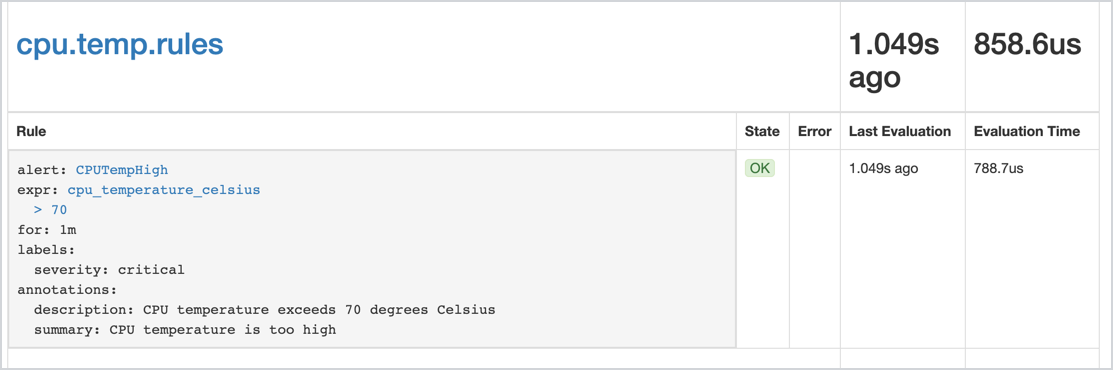
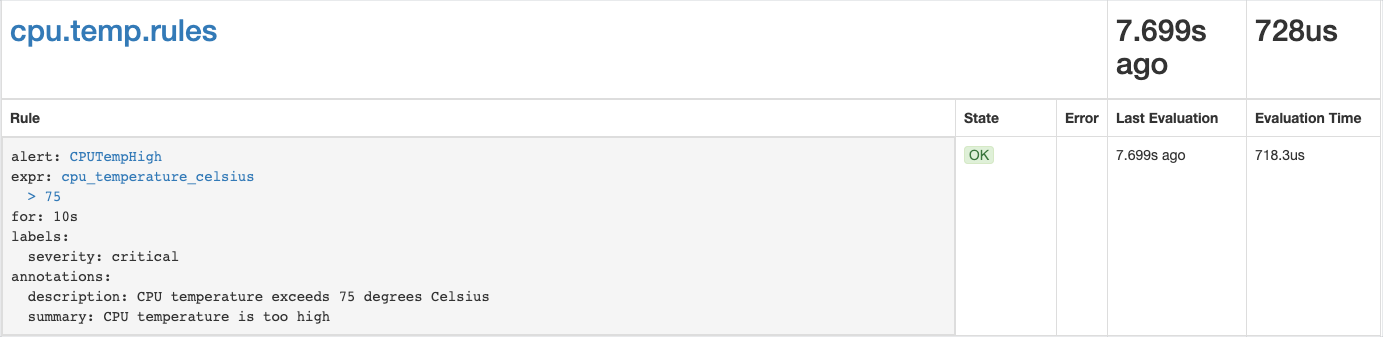
Align monitoring documentation

diff --git a/docs/monitoring/08-03-define-alerting-rules.md b/docs/monitoring/08-03-define-alerting-rules.md
@@ -3,7 +3,7 @@ title: Define alerting rules
 type: Tutorials
 ---
 
-This tutorial shows you how to define alerting rules to monitor the health status of your resources. In this example, you will write an alerting rule based on the `cpu_temperature_celsius` metric. The alert defined in the rule will fire whenever the CPU temperature exceeds 70 degrees Celsius.
+This tutorial shows you how to define alerting rules to monitor the health status of your resources. In this example, you will write an alerting rule based on the `cpu_temperature_celsius` metric. The alert defined in the rule will fire whenever the CPU temperature exceeds 75 degrees Celsius.
 
 ## Prerequisites
 
@@ -33,12 +33,12 @@ spec:
   - name: cpu.temp.rules
     rules:
     - alert: CPUTempHigh
-      expr: cpu_temperature_celsius > 70 
-      for: 60s
+      expr: cpu_temperature_celsius > 75 
+      for: 10s
       labels:
         severity: critical
       annotations:
-        description: "CPU temperature exceeds 70 degrees Celsius"
+        description: "CPU temperature exceeds 75 degrees Celsius"
         summary: "CPU temperature is too high"
 ```
 Configure your alert rule using the following parameters:
@@ -47,10 +47,10 @@ Configure your alert rule using the following parameters:
 |-----------|-------------|---------------|
 | **groups.name** | Specifies the name of the group listing the rules.  | `cpu.temp.rules` |
 | **rules.alert** | Specifies the name of the alert. | `CPUTempHigh`  |
-| **rules.expr** | A PromQL expression which specifies the conditions that must be met for the alarm to fire. Specify the expression using Kubernetes [functions](https://prometheus.io/docs/prometheus/latest/querying/functions/) and [metrics](https://github.com/kubernetes/kube-state-metrics/blob/master/docs/README.md). | `cpu_temperature_celsius > 70`  |
-| **rules.for** | Specifies the time period between encountering an active alert for the first time during rule evaluation and firing the alert.  | `60s` |
+| **rules.expr** | A PromQL expression which specifies the conditions that must be met for the alarm to fire. Specify the expression using Kubernetes [functions](https://prometheus.io/docs/prometheus/latest/querying/functions/) and [metrics](https://github.com/kubernetes/kube-state-metrics/blob/master/docs/README.md). | `cpu_temperature_celsius > 75`  |
+| **rules.for** | Specifies the time period between encountering an active alert for the first time during rule evaluation and firing the alert.  | `10s` |
 | **rules.labels.severity** | Specifies the severity of the alert.  | `critical` |
-| **rules.annotations.description** | Provides the alert details. | `CPU temperature exceeds 70 degrees Celsius` |
+| **rules.annotations.description** | Provides the alert details. | `CPU temperature exceeds 75 degrees Celsius` |
 | **rules.annotations.summary** | Provides a short alert summary. | `CPU temperature is too high` |
 
 
